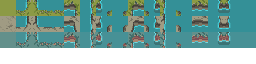
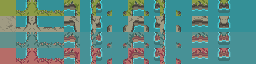
era 3, boss scales w chaos

Changed region(s): [[0.0, 0.75, 1.0, 1.0]]

diff --git a/src/world/dimension.rs b/src/world/dimension.rs
@@ -67,6 +67,7 @@ pub enum Era {
     #[default]
     Main,
     Second,
+    Third,
     DungeonMain,
 }
 
@@ -76,20 +77,23 @@ impl Era {
             Era::Main => 0,
             Era::DungeonMain => 1 * 16,
             Era::Second => 2 * 16,
+            Era::Third => 3 * 16,
         }
     }
     pub fn index(&self) -> usize {
         match self {
             Era::Main => 0,
             Era::Second => 1,
-            Era::DungeonMain => 2,
+            Era::Third => 2,
+            Era::DungeonMain => 3,
         }
     }
     pub fn from_index(index: usize) -> Self {
         match index {
             0 => Era::Main,
             1 => Era::Second,
-            2 => Era::DungeonMain,
+            2 => Era::Third,
+            3 => Era::DungeonMain,
             i => panic!("Invalid Era index:{}", i),
         }
     }
@@ -109,6 +113,7 @@ impl Era {
         match self {
             Era::Main => 0.,
             Era::Second => 3.0,
+            Era::Third => 6.0,
             Era::DungeonMain => 1.0,
         }
     }

diff --git a/src/item/object_actions.rs b/src/item/object_actions.rs
@@ -581,9 +581,8 @@ impl ObjectAction {
                 // Determine next era based on current era
                 let next_era = match current_era {
                     Era::Main => Some(Era::Second),
-                    Era::Second => {
-                        // No Era::Third exists, so this is the end
-                        // Could return None or keep at Second
+                    Era::Second => Some(Era::Third),
+                    Era::Third => {
                         return;
                     }
                     Era::DungeonMain => {

diff --git a/src/enemy/mod.rs b/src/enemy/mod.rs
@@ -433,9 +433,6 @@ fn juice_up_spawned_mobs_per_day(
     let chaos_from_era = era_manager.current_era.get_chaos_modifier();
     let total_chaos = chaos_from_totem + chaos_from_heirlooms + chaos_from_era;
     for (e, mut hp, mut att, mut exp, mob) in elites.iter_mut() {
-        if mob.is_boss() {
-            continue;
-        }
         // 1.5 per day, 0.2 per level, 1 per heirloom, 1 per totem,
         let chaos_factor = 1.5 * night_tracker.days as f32
             + (player_level.single().level as f32 * 0.2)

diff --git a/src/inputs.rs b/src/inputs.rs
@@ -459,7 +459,7 @@ pub fn toggle_inventory(
         if key_input.just_pressed(KeyCode::O) {
             dim_event.send(DimensionSpawnEvent {
                 swap_to_dim_now: true,
-                new_era: Some(Era::Second),
+                new_era: Some(Era::Third),
             });
         }
         if key_input.just_pressed(KeyCode::C) {
